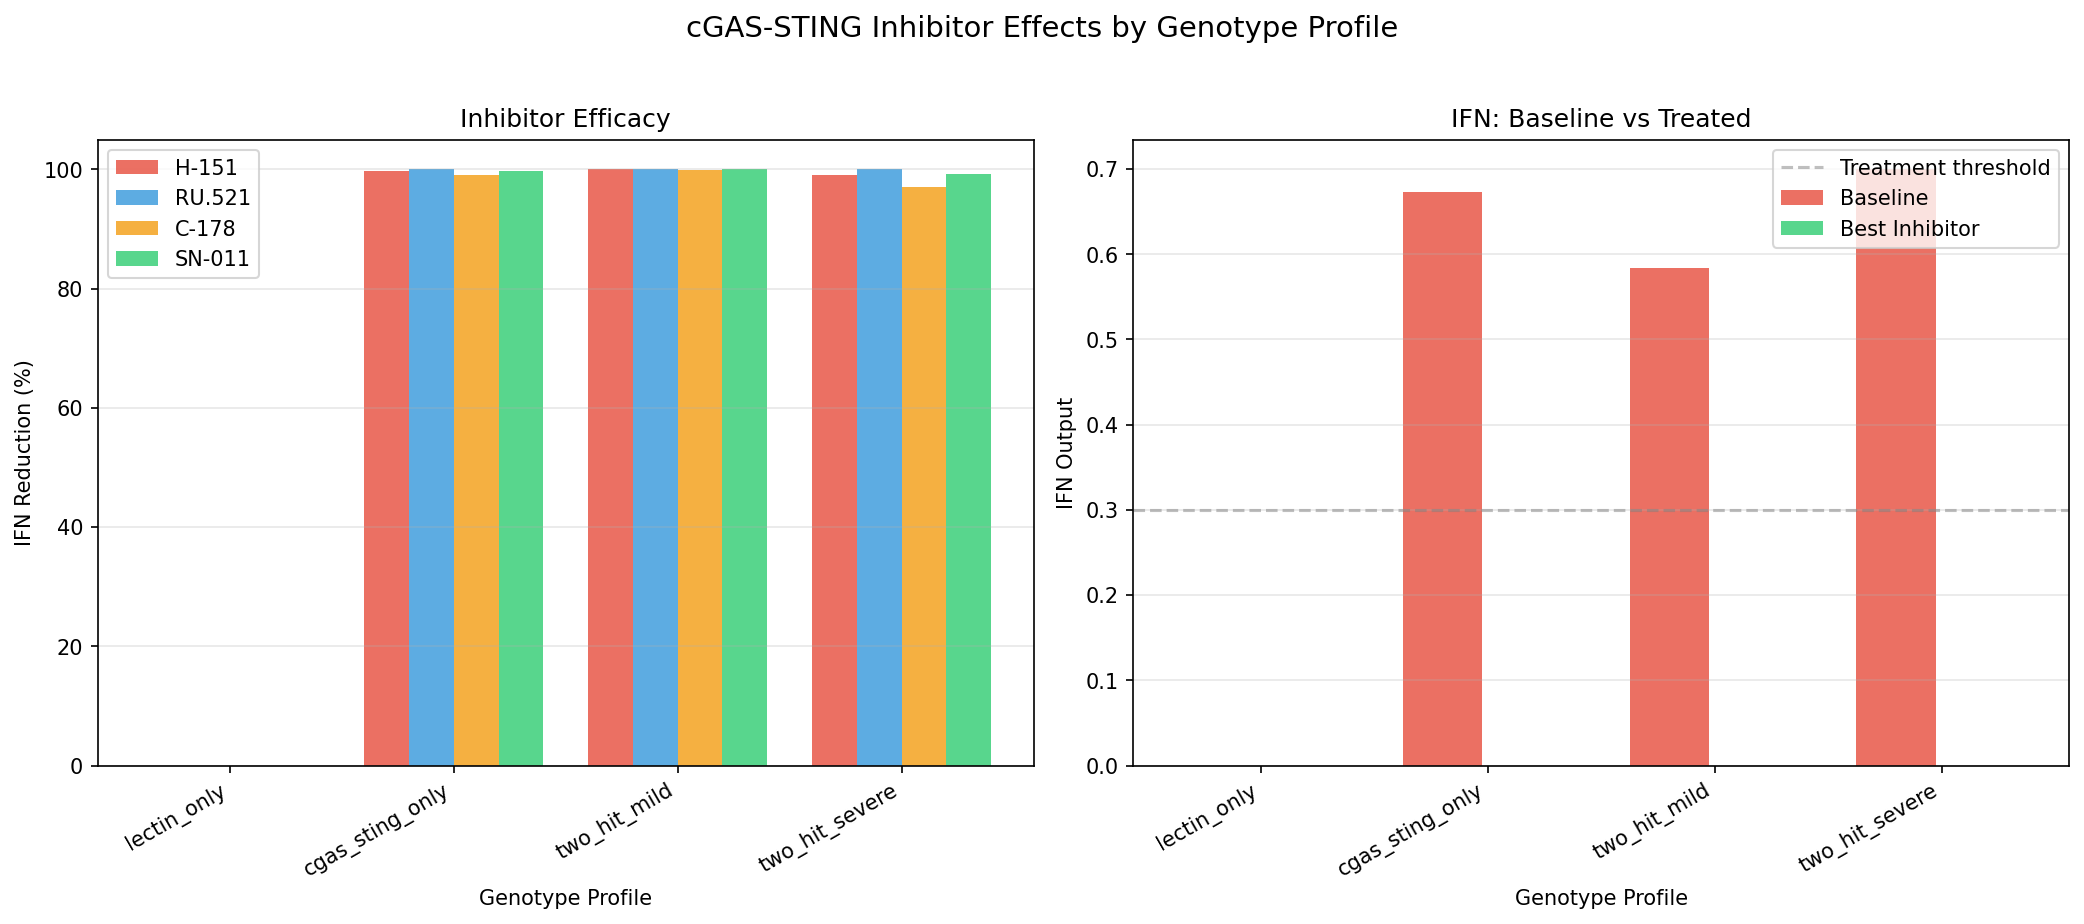
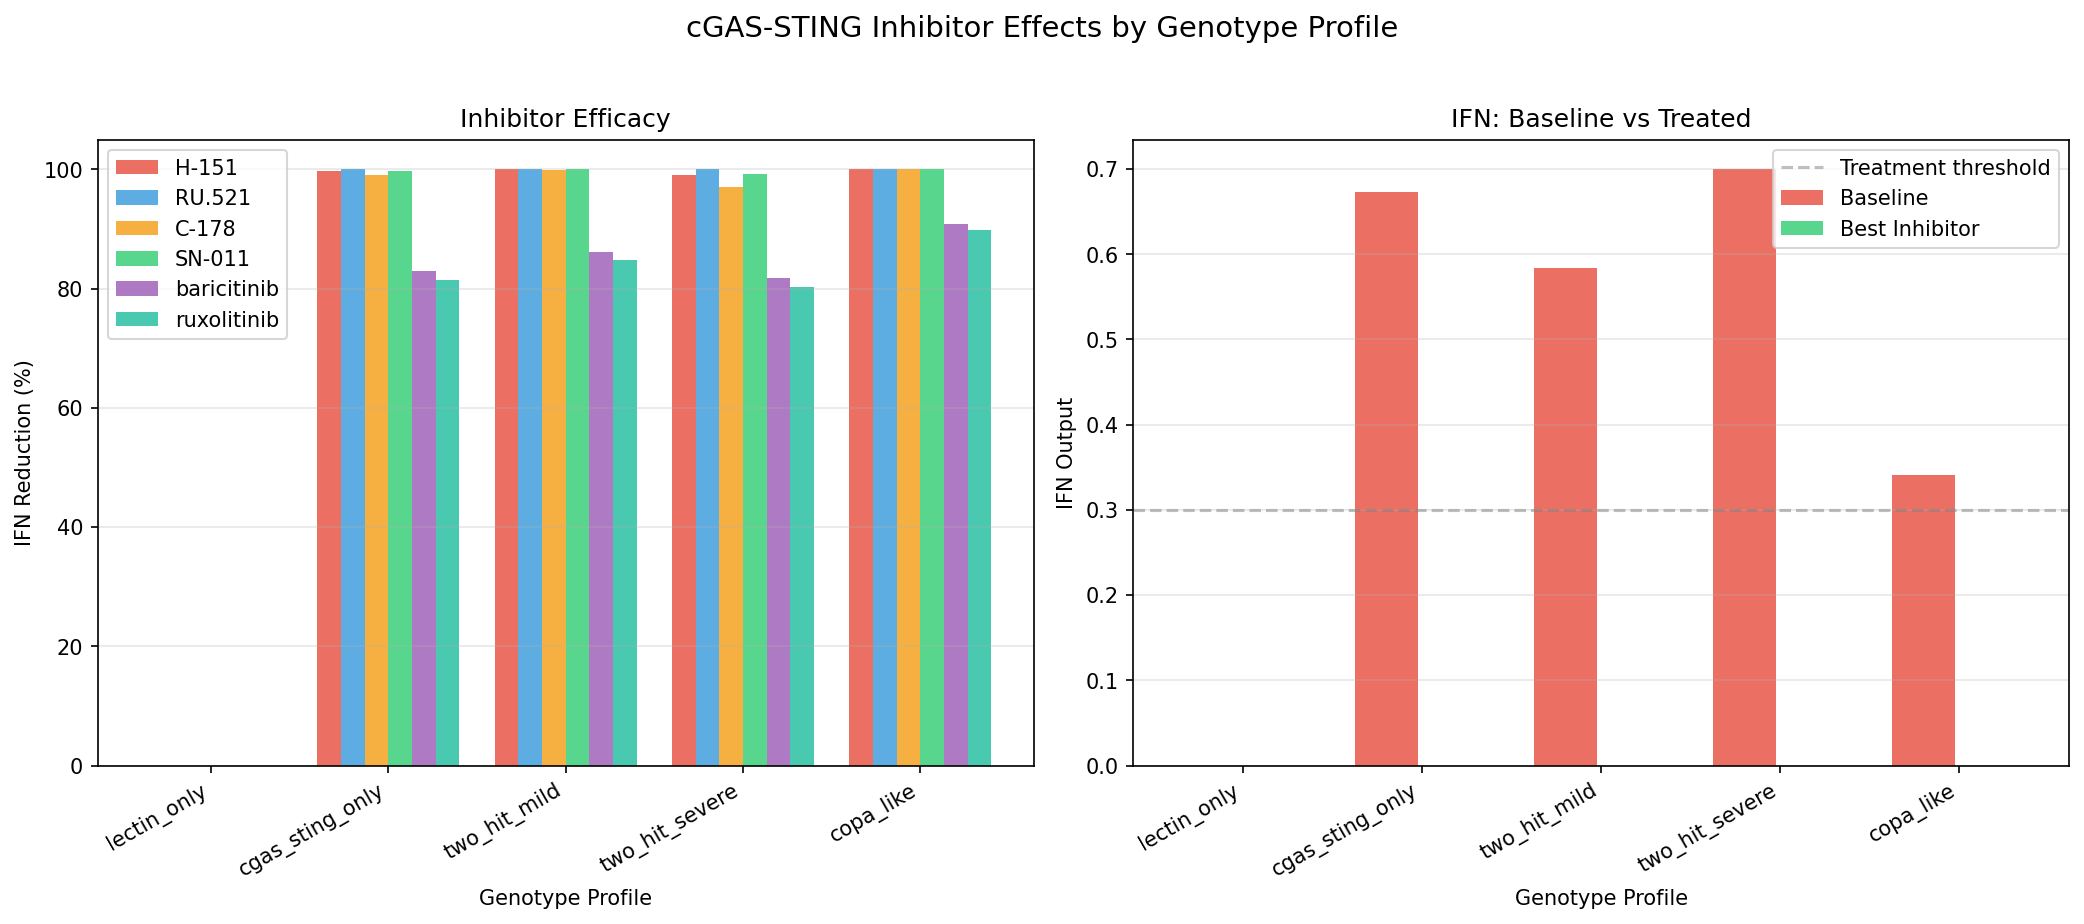
Add JAK inhibitors and copa_like profile to therapeutic model (#1611)
Added baricitinib (JAK1/JAK2, efficacy 0.75, FDA-approved RA/COVID) and
ruxolitinib (JAK1/JAK2, efficacy 0.70, FDA-approved myelofibrosis) based on
David et al. PMID 41395910 (22/38 COPA/STING patients responded to JAK-i).
JAK inhibition modeled via increased irf3_k threshold. Added copa_like compound
profile (trex1=0.7, samhd1=0.7). Predictions now note FDA-approved JAK
alternatives for all profiles needing IFN control. 29 tests passing.

diff --git a/src/bioagentics/models/two_hit_therapeutic_model.py b/src/bioagentics/models/two_hit_therapeutic_model.py
@@ -5,12 +5,18 @@ across different genotype scenarios. Predicts which patients (by genotype
 compound hit profile) would benefit most from:
   - STING inhibition (SN-011 preferred, H-151, C-178)
   - cGAS inhibition (RU.521)
+  - JAK inhibition (baricitinib, ruxolitinib — FDA-approved)
   - Complement replacement (for lectin complement deficiency)
   - Combined therapy
 
 SN-011 is the preferred STING inhibitor for DDR-variant PANS profiles based
 on superior efficacy (~IC50 100 nM), no cytotoxicity (unlike H-151), and
 demonstrated CNS efficacy in TREX1-deficient AGS mouse models.
+
+JAK inhibitors (baricitinib, ruxolitinib) are FDA-approved and provide a
+clinically available alternative when STING-specific inhibitors are still
+preclinical. Based on David et al. (PMID 41395910): 22/38 COPA/STING
+interferonopathy patients responded to JAK inhibitors.
 
 Uses the cGAS-STING pathway model from two_hit_cgas_sting_model.py as
 the simulation engine.
@@ -83,6 +89,27 @@ INHIBITORS = [
         ),
         clinical_stage="Preclinical (in vivo AGS model efficacy demonstrated)",
     ),
+    Inhibitor(
+        name="baricitinib",
+        target="jak",
+        efficacy=0.75,
+        description=(
+            "JAK1/JAK2 inhibitor; blocks JAK/STAT → IFN gene transcription "
+            "downstream of STING; 22/38 COPA/STING patients responded "
+            "(David et al. PMID 41395910)"
+        ),
+        clinical_stage="FDA-approved (RA, COVID-19)",
+    ),
+    Inhibitor(
+        name="ruxolitinib",
+        target="jak",
+        efficacy=0.70,
+        description=(
+            "JAK1/JAK2 inhibitor; blocks IFN gene transcription; "
+            "used in STING-associated interferonopathies"
+        ),
+        clinical_stage="FDA-approved (myelofibrosis, polycythemia vera)",
+    ),
 ]
 
 # Compound genotype profiles for therapeutic prediction
@@ -119,6 +146,14 @@ COMPOUND_PROFILES = [
         "lectin_complement_deficient": True,
         "recommended_therapy": "combined_aggressive",
     },
+    {
+        "name": "copa_like",
+        "description": "COPA-like phenotype: mild TREX1/SAMHD1 impairment (STING gain-of-function analog)",
+        "trex1_activity": 0.7,
+        "samhd1_activity": 0.7,
+        "lectin_complement_deficient": False,
+        "recommended_therapy": "jak_inhibition",
+    },
 ]
 
 
@@ -154,6 +189,14 @@ def simulate_inhibitor_effect(
         inhibited = simulate_pathway(
             gas_dna, trex1_activity, samhd1_activity,
             cgas_k=inhibited_cgas_k,
+        )
+    elif inhibitor.target == "jak":
+        # JAK inhibitor: blocks JAK/STAT → IFN gene transcription downstream of IRF3
+        # Increase irf3_k threshold (harder to produce IFN output)
+        inhibited_irf3_k = 0.5 + (inhibitor.efficacy * 2.0)
+        inhibited = simulate_pathway(
+            gas_dna, trex1_activity, samhd1_activity,
+            irf3_k=inhibited_irf3_k,
         )
     else:
         inhibited = baseline
@@ -202,9 +245,13 @@ def predict_therapy(
     # Find best single inhibitor overall
     best_inh = max(inhibitor_results, key=lambda r: r["ifn_reduction"])
 
-    # Find best STING-class inhibitor separately
+    # Find best STING-class inhibitor separately (prefer SN-011 at equal reduction)
     sting_results = [r for r in inhibitor_results if r["target"] == "sting"]
-    best_sting = max(sting_results, key=lambda r: r["ifn_reduction"]) if sting_results else None
+    best_sting = max(sting_results, key=lambda r: (r["ifn_reduction"], r["inhibitor"] == "SN-011")) if sting_results else None
+
+    # Find best JAK-class inhibitor separately
+    jak_results = [r for r in inhibitor_results if r["target"] == "jak"]
+    best_jak = max(jak_results, key=lambda r: r["ifn_reduction"]) if jak_results else None
 
     # Determine therapy recommendation
     baseline = simulate_pathway(gas_dna, trex1, samhd1)
@@ -220,13 +267,22 @@ def predict_therapy(
             "demonstrated CNS efficacy in TREX1-deficient models"
         )
 
+    # Note FDA-approved JAK alternative
+    jak_note = ""
+    if best_jak and needs_ifn_control:
+        jak_note = (
+            f". FDA-approved alternative: {best_jak['inhibitor']} (JAK inhibitor, "
+            f"{best_jak['pct_reduction']:.0f}% IFN reduction) — clinically available "
+            f"while STING-specific inhibitors remain preclinical"
+        )
+
     if lectin_def and needs_ifn_control:
         therapy = "combined: complement replacement + " + best_inh["inhibitor"]
         rationale = (
             f"Dual targeting: lectin complement replacement for pathogen clearance, "
             f"{best_inh['inhibitor']} ({best_inh['target']} inhibitor) for IFN control "
             f"({best_inh['pct_reduction']:.0f}% reduction)"
-            f"{preferred_note}"
+            f"{preferred_note}{jak_note}"
         )
     elif lectin_def and not needs_ifn_control:
         therapy = "complement_replacement"
@@ -236,7 +292,7 @@ def predict_therapy(
         rationale = (
             f"{best_inh['inhibitor']} ({best_inh['target']} inhibitor) reduces IFN by "
             f"{best_inh['pct_reduction']:.0f}%"
-            f"{preferred_note}"
+            f"{preferred_note}{jak_note}"
         )
     else:
         therapy = "monitoring"
@@ -254,6 +310,7 @@ def predict_therapy(
         "inhibitor_results": inhibitor_results,
         "best_single_inhibitor": best_inh["inhibitor"],
         "preferred_sting_inhibitor": best_sting["inhibitor"] if best_sting and has_ddr_cgas_sting else None,
+        "best_jak_inhibitor": best_jak["inhibitor"] if best_jak else None,
         "recommended_therapy": therapy,
         "rationale": rationale,
     }
@@ -335,7 +392,7 @@ def plot_therapeutic_comparison(
 
     fig, axes = plt.subplots(1, 2, figsize=(14, 6))
 
-    colors = ["#E74C3C", "#3498DB", "#F39C12", "#2ECC71"]
+    colors = ["#E74C3C", "#3498DB", "#F39C12", "#2ECC71", "#9B59B6", "#1ABC9C"]
 
     # Left: IFN reduction by inhibitor
     ax1 = axes[0]

diff --git a/tests/test_two_hit_therapeutic_model.py b/tests/test_two_hit_therapeutic_model.py
@@ -16,8 +16,8 @@ from bioagentics.models.two_hit_therapeutic_model import (
 
 class TestInhibitorPanel:
     def test_inhibitor_count(self):
-        """INHIBITORS list includes all 4 inhibitors (H-151, RU.521, C-178, SN-011)."""
-        assert len(INHIBITORS) == 4
+        """INHIBITORS list includes all 6 inhibitors."""
+        assert len(INHIBITORS) == 6
 
     def test_sn011_in_panel(self):
         names = [inh.name for inh in INHIBITORS]
@@ -32,6 +32,18 @@ class TestInhibitorPanel:
         sting_inhibitors = [inh for inh in INHIBITORS if inh.target == "sting"]
         best = max(sting_inhibitors, key=lambda i: i.efficacy)
         assert best.name == "SN-011"
+
+    def test_jak_inhibitors_present(self):
+        """Panel includes baricitinib and ruxolitinib JAK inhibitors."""
+        names = [inh.name for inh in INHIBITORS]
+        assert "baricitinib" in names
+        assert "ruxolitinib" in names
+
+    def test_jak_inhibitors_target(self):
+        jak_inhs = [inh for inh in INHIBITORS if inh.target == "jak"]
+        assert len(jak_inhs) == 2
+        for inh in jak_inhs:
+            assert inh.clinical_stage.startswith("FDA-approved")
 
 
 class TestSimulateInhibitorEffect:
@@ -81,6 +93,21 @@ class TestSimulateInhibitorEffect:
         r_sn011 = simulate_inhibitor_effect(0.1, 0.1, 0.5, sn011)
         assert r_sn011["ifn_reduction"] >= r_h151["ifn_reduction"]
 
+    def test_jak_inhibitor_reduces_ifn(self):
+        """JAK inhibitors should reduce IFN output."""
+        baricitinib = next(inh for inh in INHIBITORS if inh.name == "baricitinib")
+        result = simulate_inhibitor_effect(0.1, 0.1, 0.5, baricitinib)
+        assert result["inhibited_ifn"] < result["baseline_ifn"]
+        assert result["pct_reduction"] > 0
+
+    def test_baricitinib_higher_efficacy_than_ruxolitinib(self):
+        """Baricitinib (0.75) should reduce more than ruxolitinib (0.70)."""
+        bar = next(inh for inh in INHIBITORS if inh.name == "baricitinib")
+        rux = next(inh for inh in INHIBITORS if inh.name == "ruxolitinib")
+        r_bar = simulate_inhibitor_effect(0.1, 0.1, 0.5, bar)
+        r_rux = simulate_inhibitor_effect(0.1, 0.1, 0.5, rux)
+        assert r_bar["ifn_reduction"] >= r_rux["ifn_reduction"]
+
 
 class TestPredictTherapy:
     def test_lectin_only_recommends_complement(self):
@@ -125,6 +152,24 @@ class TestPredictTherapy:
             if profile["trex1_activity"] < 0.8 or profile["samhd1_activity"] < 0.8:
                 pred = predict_therapy(profile)
                 assert "SN-011" in pred["rationale"]
+
+    def test_copa_like_profile_exists(self):
+        """copa_like profile should be in COMPOUND_PROFILES."""
+        names = [p["name"] for p in COMPOUND_PROFILES]
+        assert "copa_like" in names
+
+    def test_prediction_has_best_jak(self):
+        """Predictions should include best_jak_inhibitor field."""
+        pred = predict_therapy(COMPOUND_PROFILES[1])
+        assert "best_jak_inhibitor" in pred
+        assert pred["best_jak_inhibitor"] == "baricitinib"
+
+    def test_jak_mentioned_in_rationale_when_needed(self):
+        """Profiles needing IFN control should mention FDA-approved JAK alternative."""
+        for profile in COMPOUND_PROFILES:
+            pred = predict_therapy(profile)
+            if pred["baseline_ifn"] > 0.3:
+                assert "FDA-approved" in pred["rationale"]
 
 
 class TestRunPipeline:
